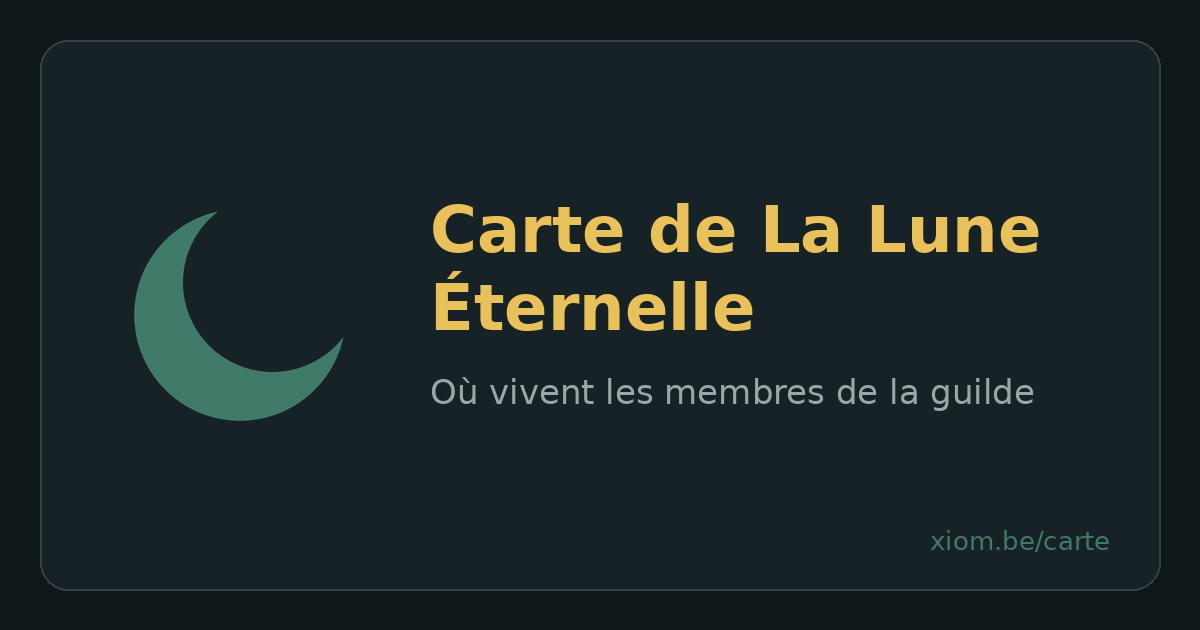
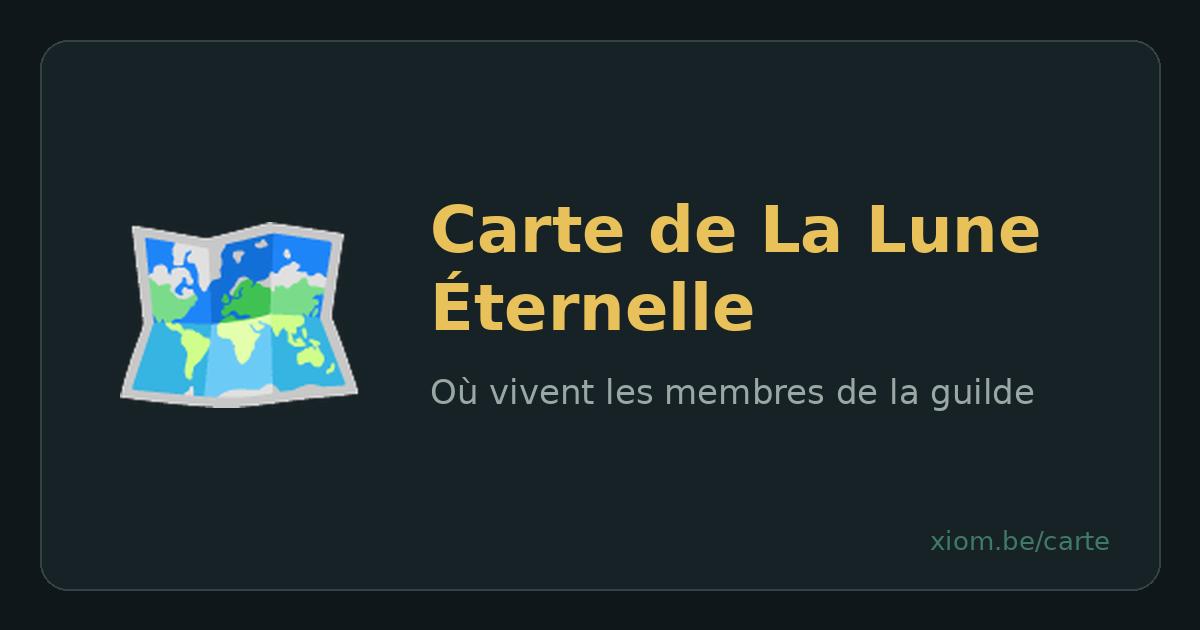
xiom.be : les apercus prennent l'emoji du salon Discord de chaque page

Changed region(s): [[0.0925, 0.3317, 0.3083, 0.6937]]

diff --git a/outils/apercus-xiom.py b/outils/apercus-xiom.py
@@ -15,7 +15,6 @@ leur titre, jamais une capture de leur contenu.
 from __future__ import annotations
 
 import os
-import tempfile
 
 from PIL import Image, ImageDraw, ImageFont
 
@@ -32,19 +31,22 @@ FAIBLE = (154, 168, 165)
 GRAS = "/usr/share/fonts/truetype/dejavu/DejaVuSans-Bold.ttf"
 NORMAL = "/usr/share/fonts/truetype/dejavu/DejaVuSans.ttf"
 
-# dossier, titre, sous-titre, icone (None = le croissant de lune du site)
+EMOJI = "/usr/share/fonts/truetype/noto/NotoColorEmoji.ttf"
+
+# dossier, titre, sous-titre, emoji : celui du salon Discord de la page
 PAGES = (
     ("carte", "Carte de La Lune Éternelle",
-     "Où vivent les membres de la guilde", None),
+     "Où vivent les membres de la guilde", "\U0001F5FA"),
     ("forage", "Relevé de forage des Primes",
-     "Où et quand sortent les matières suprêmes et excellentes", None),
+     "Où et quand sortent les matières suprêmes et excellentes", "\u26CF"),
     ("mp", "MP du hall de guilde",
-     "Les MP à forer pour les recettes, d'après le stock du hall", None),
+     "Les MP à forer pour les recettes, d'après le stock du hall",
+     "\U0001F4DA"),
     ("zyroom", "ZyRoom",
      "Les inventaires de La Lune Éternelle, dans le navigateur",
-     os.path.join(RACINE, "zyroom-gtk", "data", "net.ryzom.zyroomgtk.svg")),
+     "\U0001F50D"),
     ("OP", "Guerre d'OP",
-     "Trier ensemble les participants des guerres d'avant-poste", None),
+     "Trier ensemble les participants des guerres d'avant-poste", "\u2694"),
 )
 
 
@@ -52,28 +54,16 @@ def police(chemin: str, taille: int) -> ImageFont.FreeTypeFont:
     return ImageFont.truetype(chemin, taille)
 
 
-def lune(taille: int) -> Image.Image:
-    """Le croissant de la favicon : un disque sarcelle mange par le fond."""
-    fois = 4  # dessine en grand puis reduit : bords lisses
-    t = taille * fois
-    im = Image.new("RGBA", (t, t), (0, 0, 0, 0))
-    d = ImageDraw.Draw(im)
-    r = t * 13 / 32
-    d.ellipse((t / 2 - r, t / 2 - r, t / 2 + r, t / 2 + r), fill=SARCELLE)
-    r2, cx, cy = t * 11 / 32, t * 20 / 32, t * 12 / 32
-    d.ellipse((cx - r2, cy - r2, cx + r2, cy + r2), fill=(0, 0, 0, 0))
-    return im.resize((taille, taille), Image.LANCZOS)
-
-
-def svg(chemin: str, taille: int) -> Image.Image:
-    # GdkPixbuf lit le SVG : deja la, puisque ZyRoom-GTK en depend
-    import gi
-    gi.require_version("GdkPixbuf", "2.0")
-    from gi.repository import GdkPixbuf
-    pb = GdkPixbuf.Pixbuf.new_from_file_at_size(chemin, taille, taille)
-    with tempfile.NamedTemporaryFile(suffix=".png") as png:
-        pb.savev(png.name, "png", [], [])
-        return Image.open(png.name).convert("RGBA")
+def emoji(car: str, taille: int) -> Image.Image:
+    """L'emoji en couleur. Noto n'existe qu'en 109 px : dessine a cette
+    taille, rogne au plus juste, puis agrandi."""
+    im = Image.new("RGBA", (160, 160), (0, 0, 0, 0))
+    ImageDraw.Draw(im).text((80, 80), car, font=ImageFont.truetype(EMOJI, 109),
+                            embedded_color=True, anchor="mm")
+    im = im.crop(im.getbbox())
+    echelle = taille / max(im.size)
+    return im.resize((round(im.width * echelle), round(im.height * echelle)),
+                     Image.LANCZOS)
 
 
 def lignes(texte: str, fonte, largeur: int, d: ImageDraw.ImageDraw) -> list:
@@ -94,8 +84,9 @@ def carte(dossier: str, titre: str, sous: str, icone) -> None:
     d = ImageDraw.Draw(im)
     d.rounded_rectangle((40, 40, LARGEUR - 40, HAUTEUR - 40), 28,
                         fill=SURFACE, outline=(50, 66, 70), width=2)
-    image = svg(icone, 260) if icone else lune(260)
-    im.paste(image, (110, (HAUTEUR - 260) // 2), image)
+    image = emoji(icone, 240)
+    im.paste(image, (110 + (260 - image.width) // 2,
+                     (HAUTEUR - image.height) // 2), image)
 
     x, large = 430, LARGEUR - 430 - 90
     f_titre, f_sous = police(GRAS, 64), police(NORMAL, 34)
